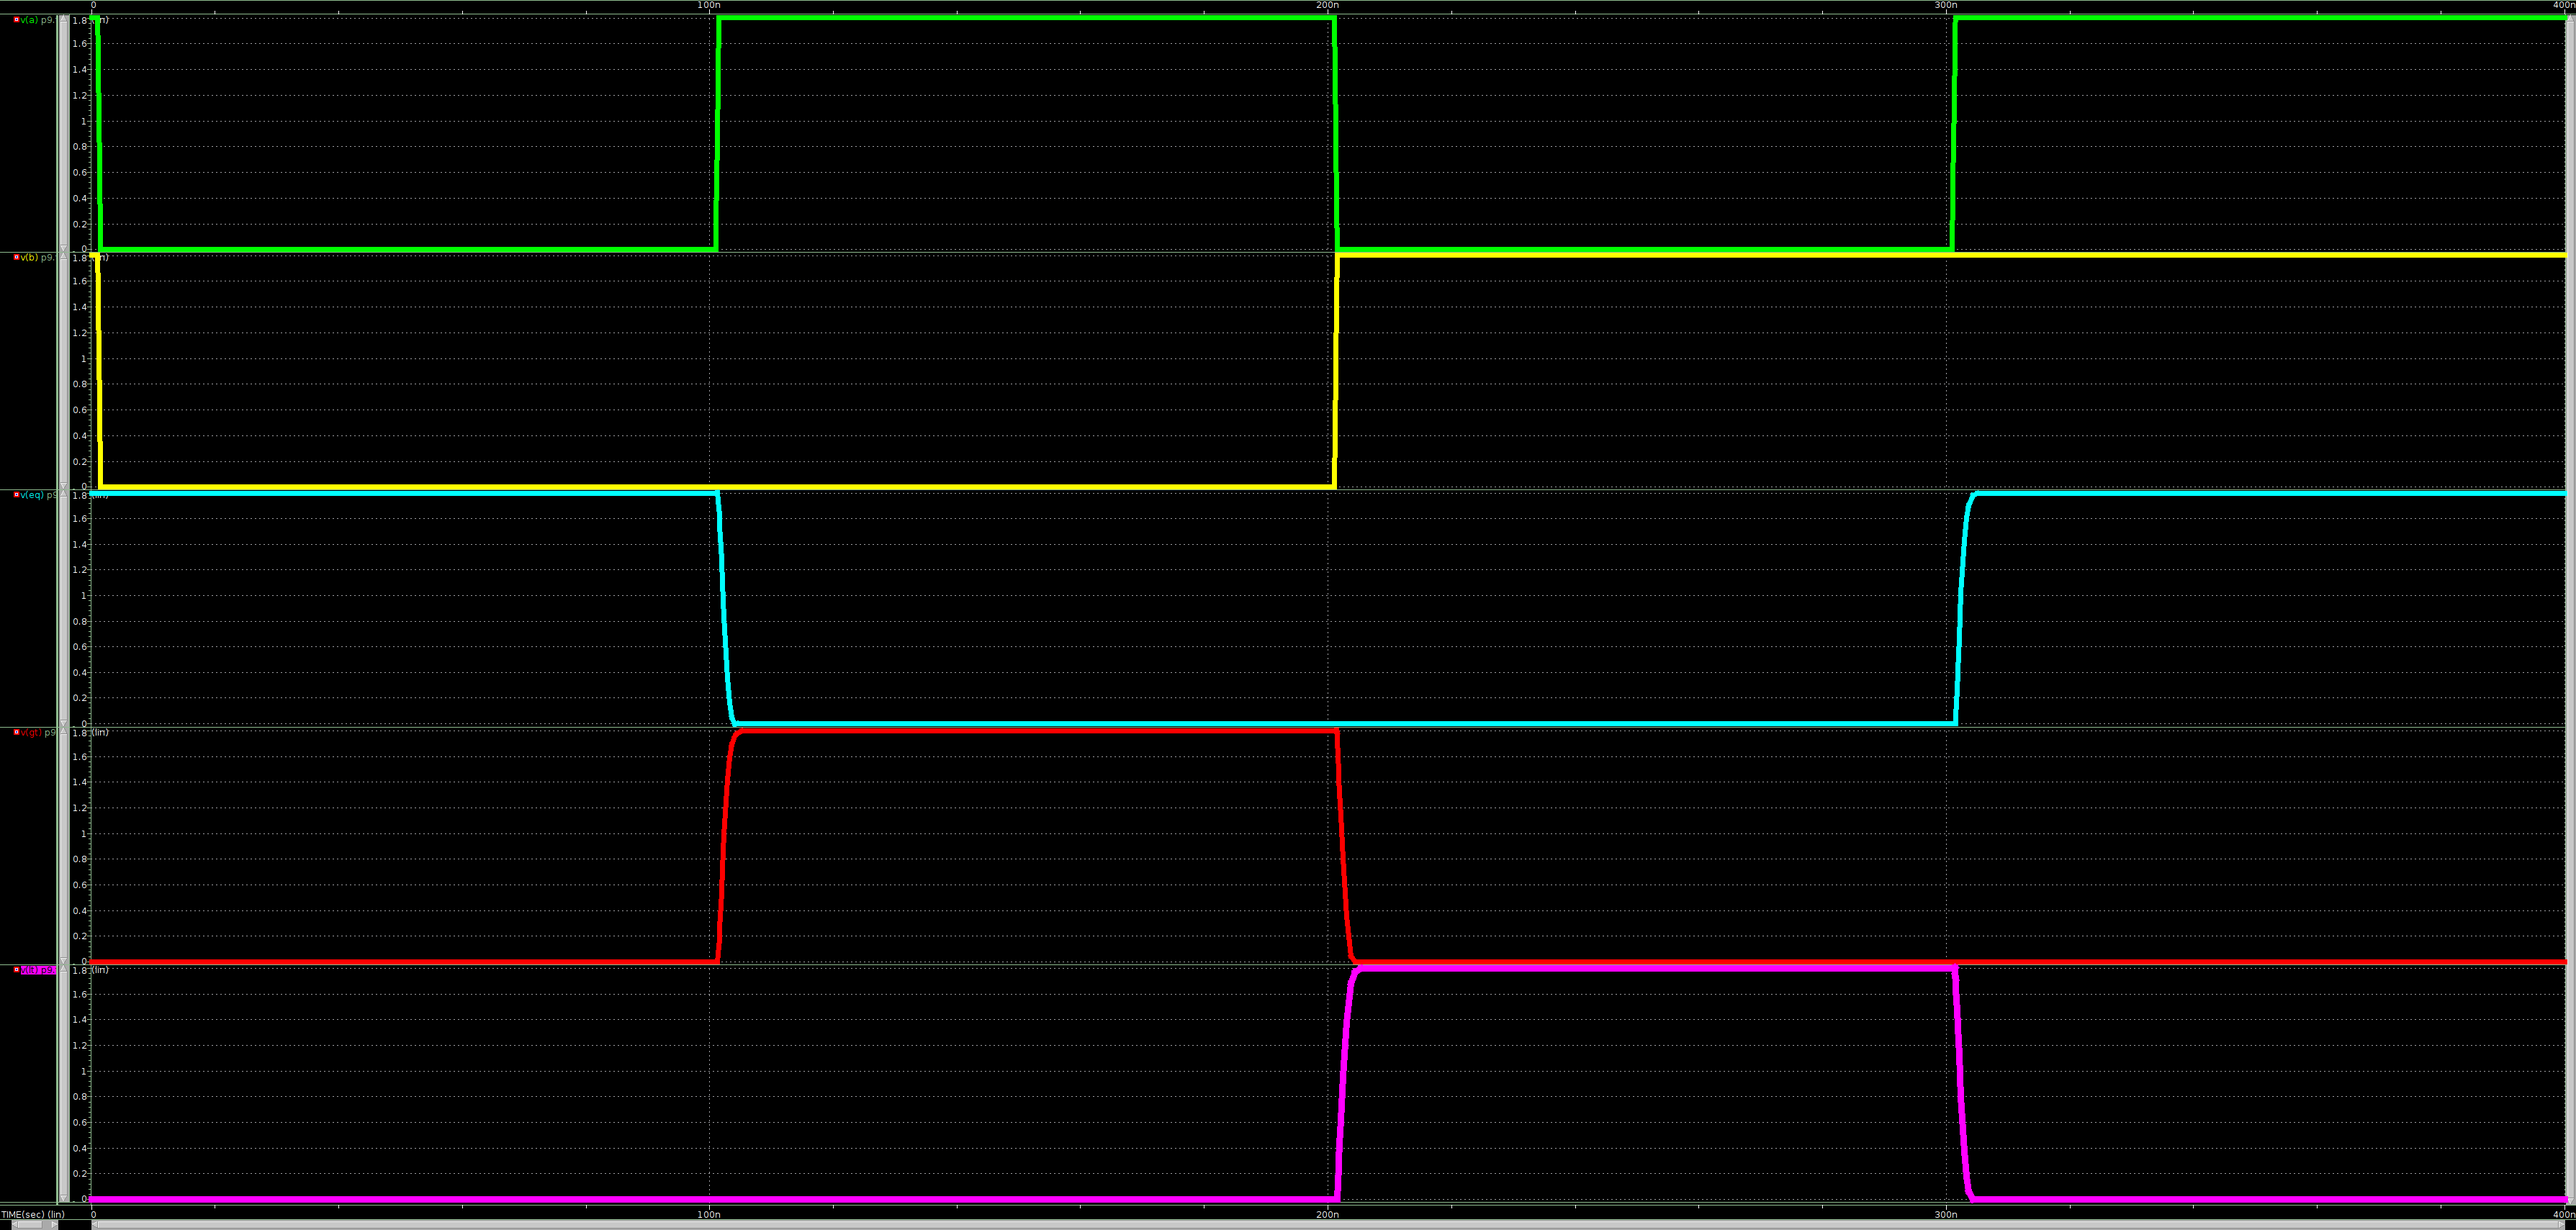
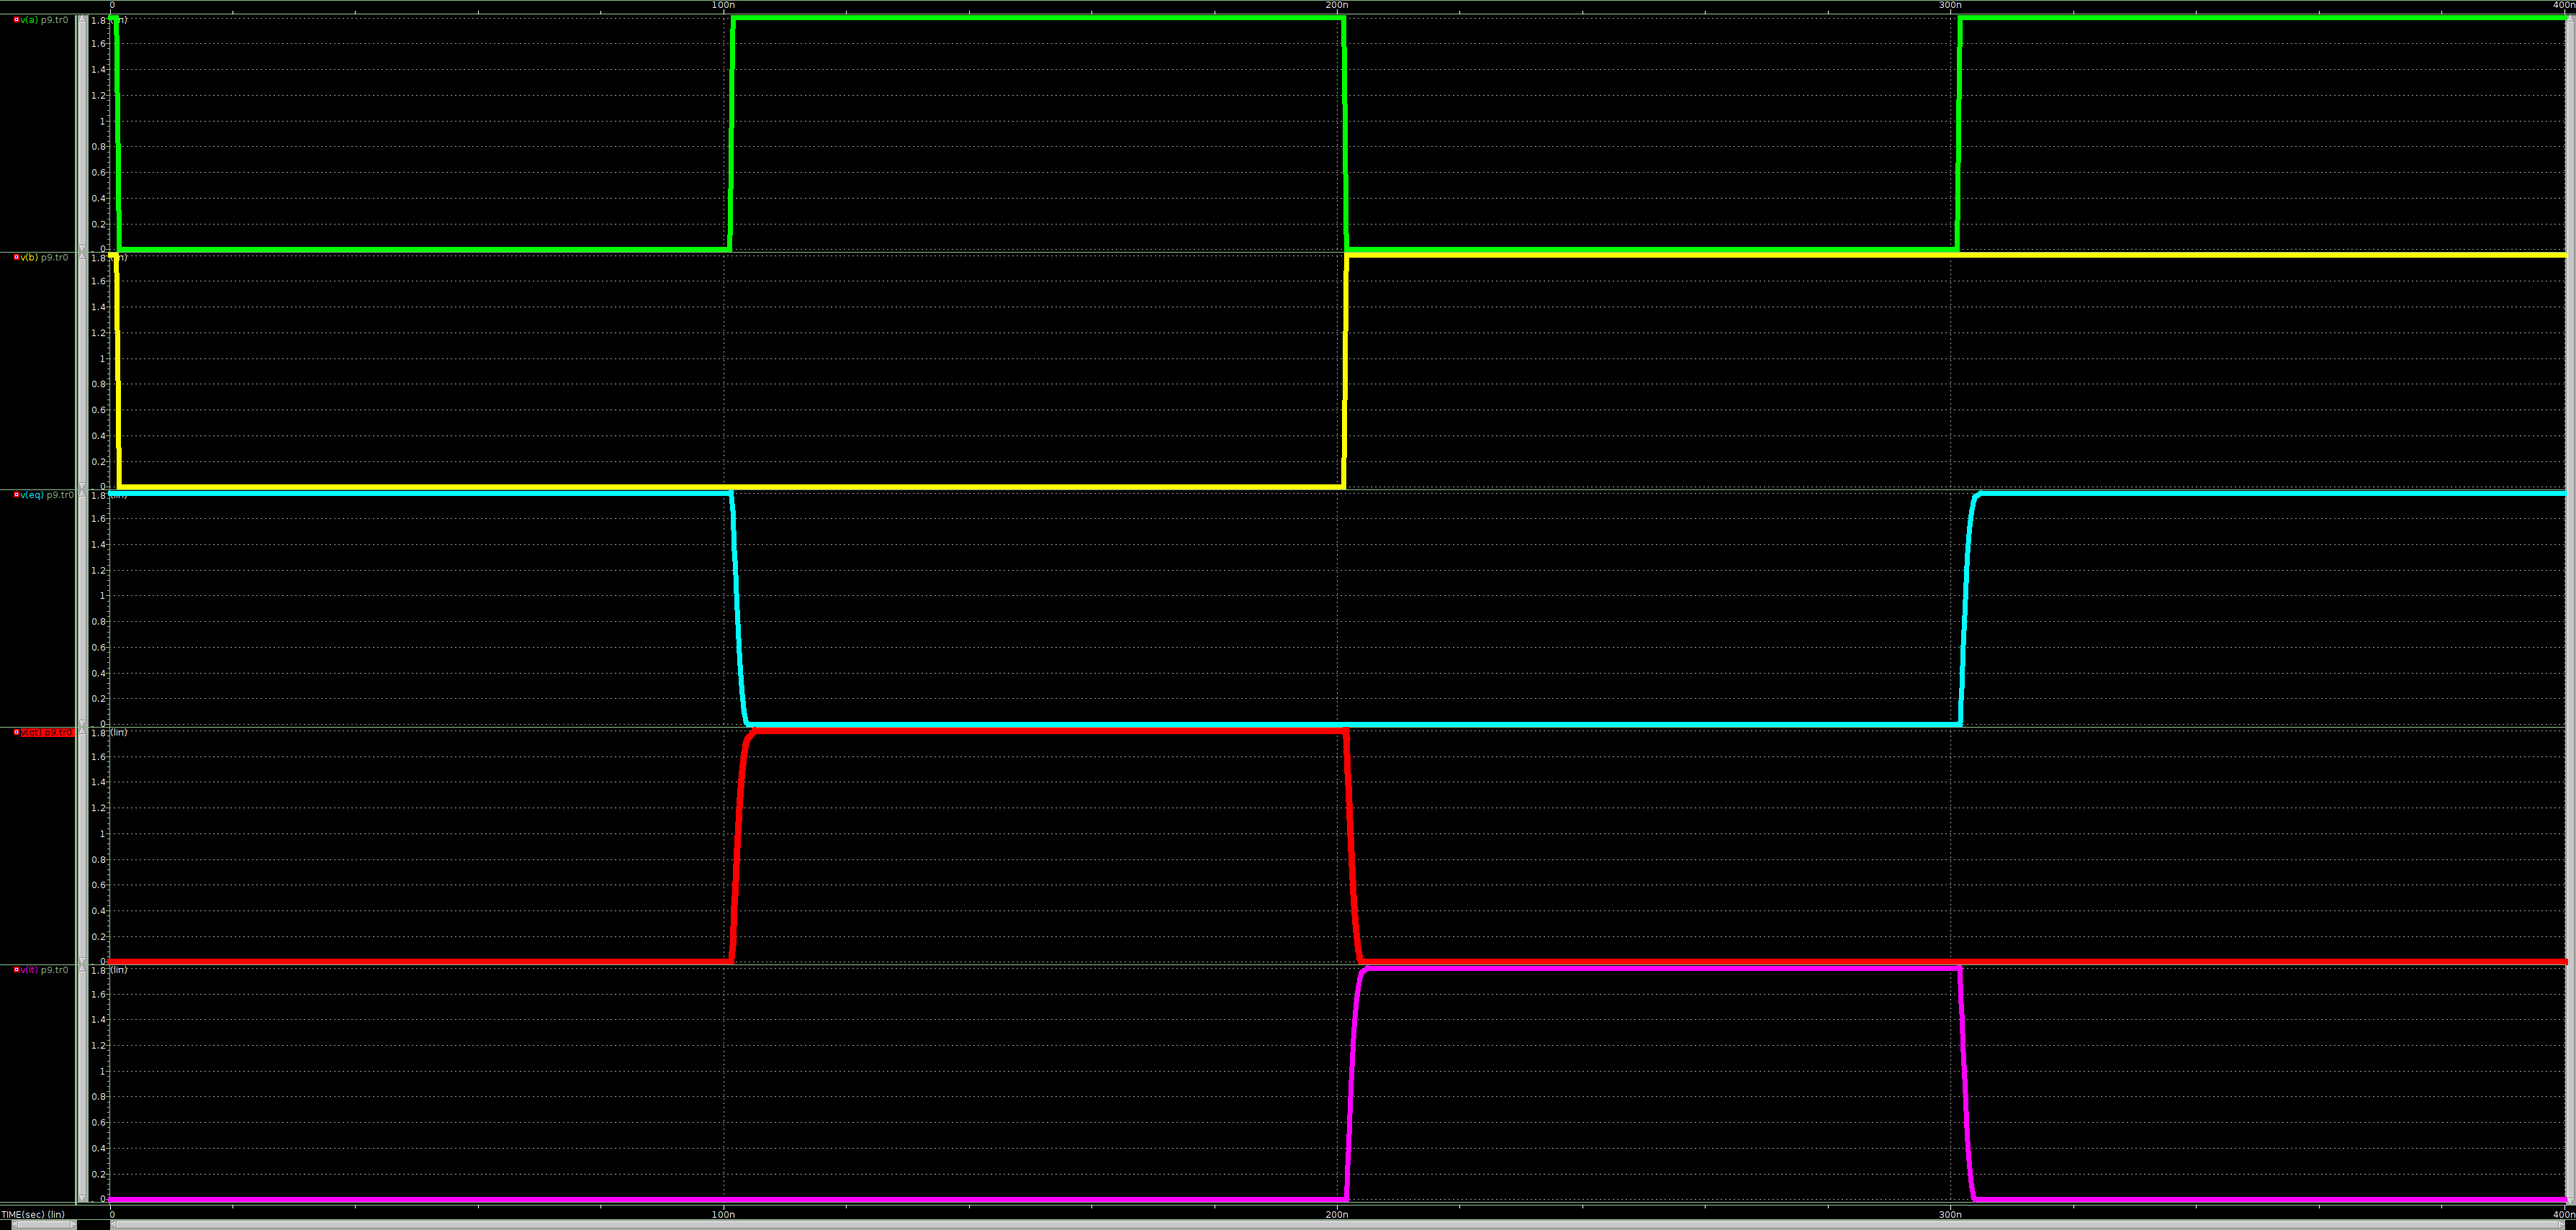
第9題 多量測其他通道的delay

diff --git a/MidtermPractice/Practice9/README.md b/MidtermPractice/Practice9/README.md
@@ -3,11 +3,18 @@
 - 可參考Lab7 與 Lab3
 - 備註: 
     - 突波是可以接受的
-    - 助教說需要測量 a<b , a=b , a>b 之delay time 
+    - 助教:「需要測量 a<b , a=b , a>b 之delay time 」
+    - p9_eq.sp 為僅測量 a=b 之 delay time 
   
 - 題目與節點
     >![alt text](p9_node.jpg)
 - delay time
-    >![alt text](p9_delay.png)
+    >　p9.sp
+    > ![alt text](p9_delay.png)
+    > p9_eq.sp
+    > ![alt text](p9_delay_eq.png)　
 - 波型
-    >![alt text](p9_wave.png)
+    > p9.sp
+    > ![alt text](p9_wave.png)
+    > p9_eq.sp
+    > ![alt text](p9_wave_eq.png)
